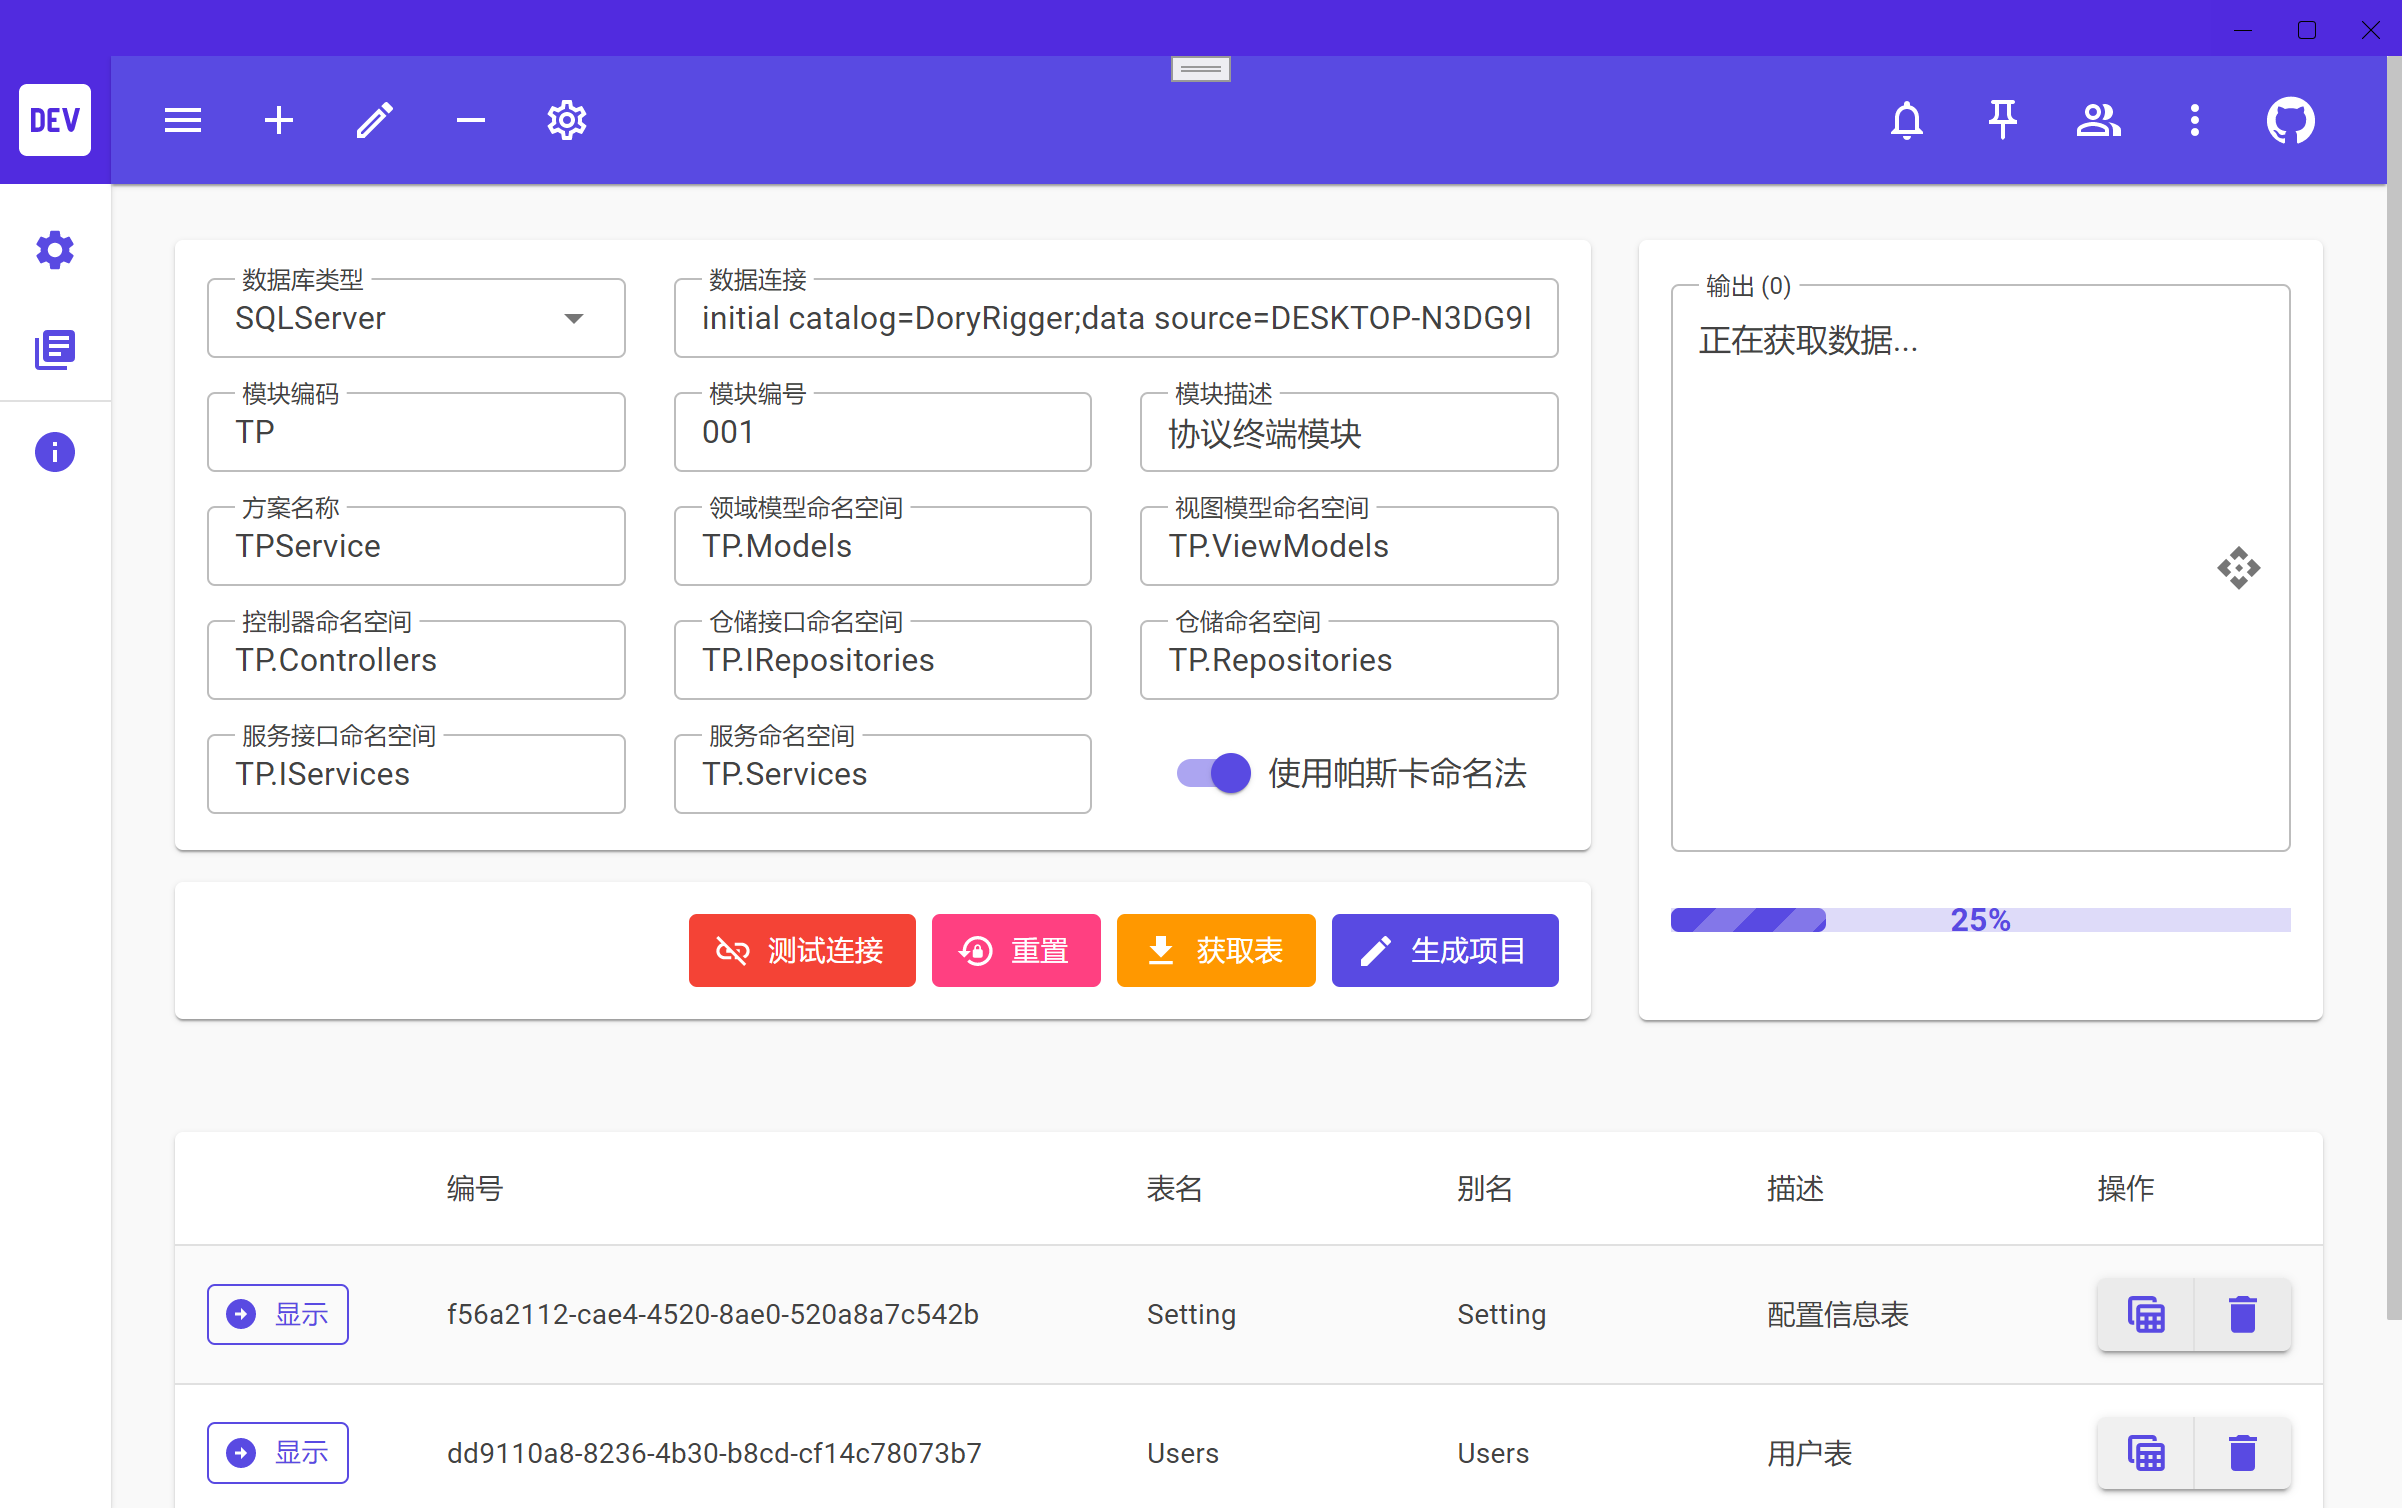
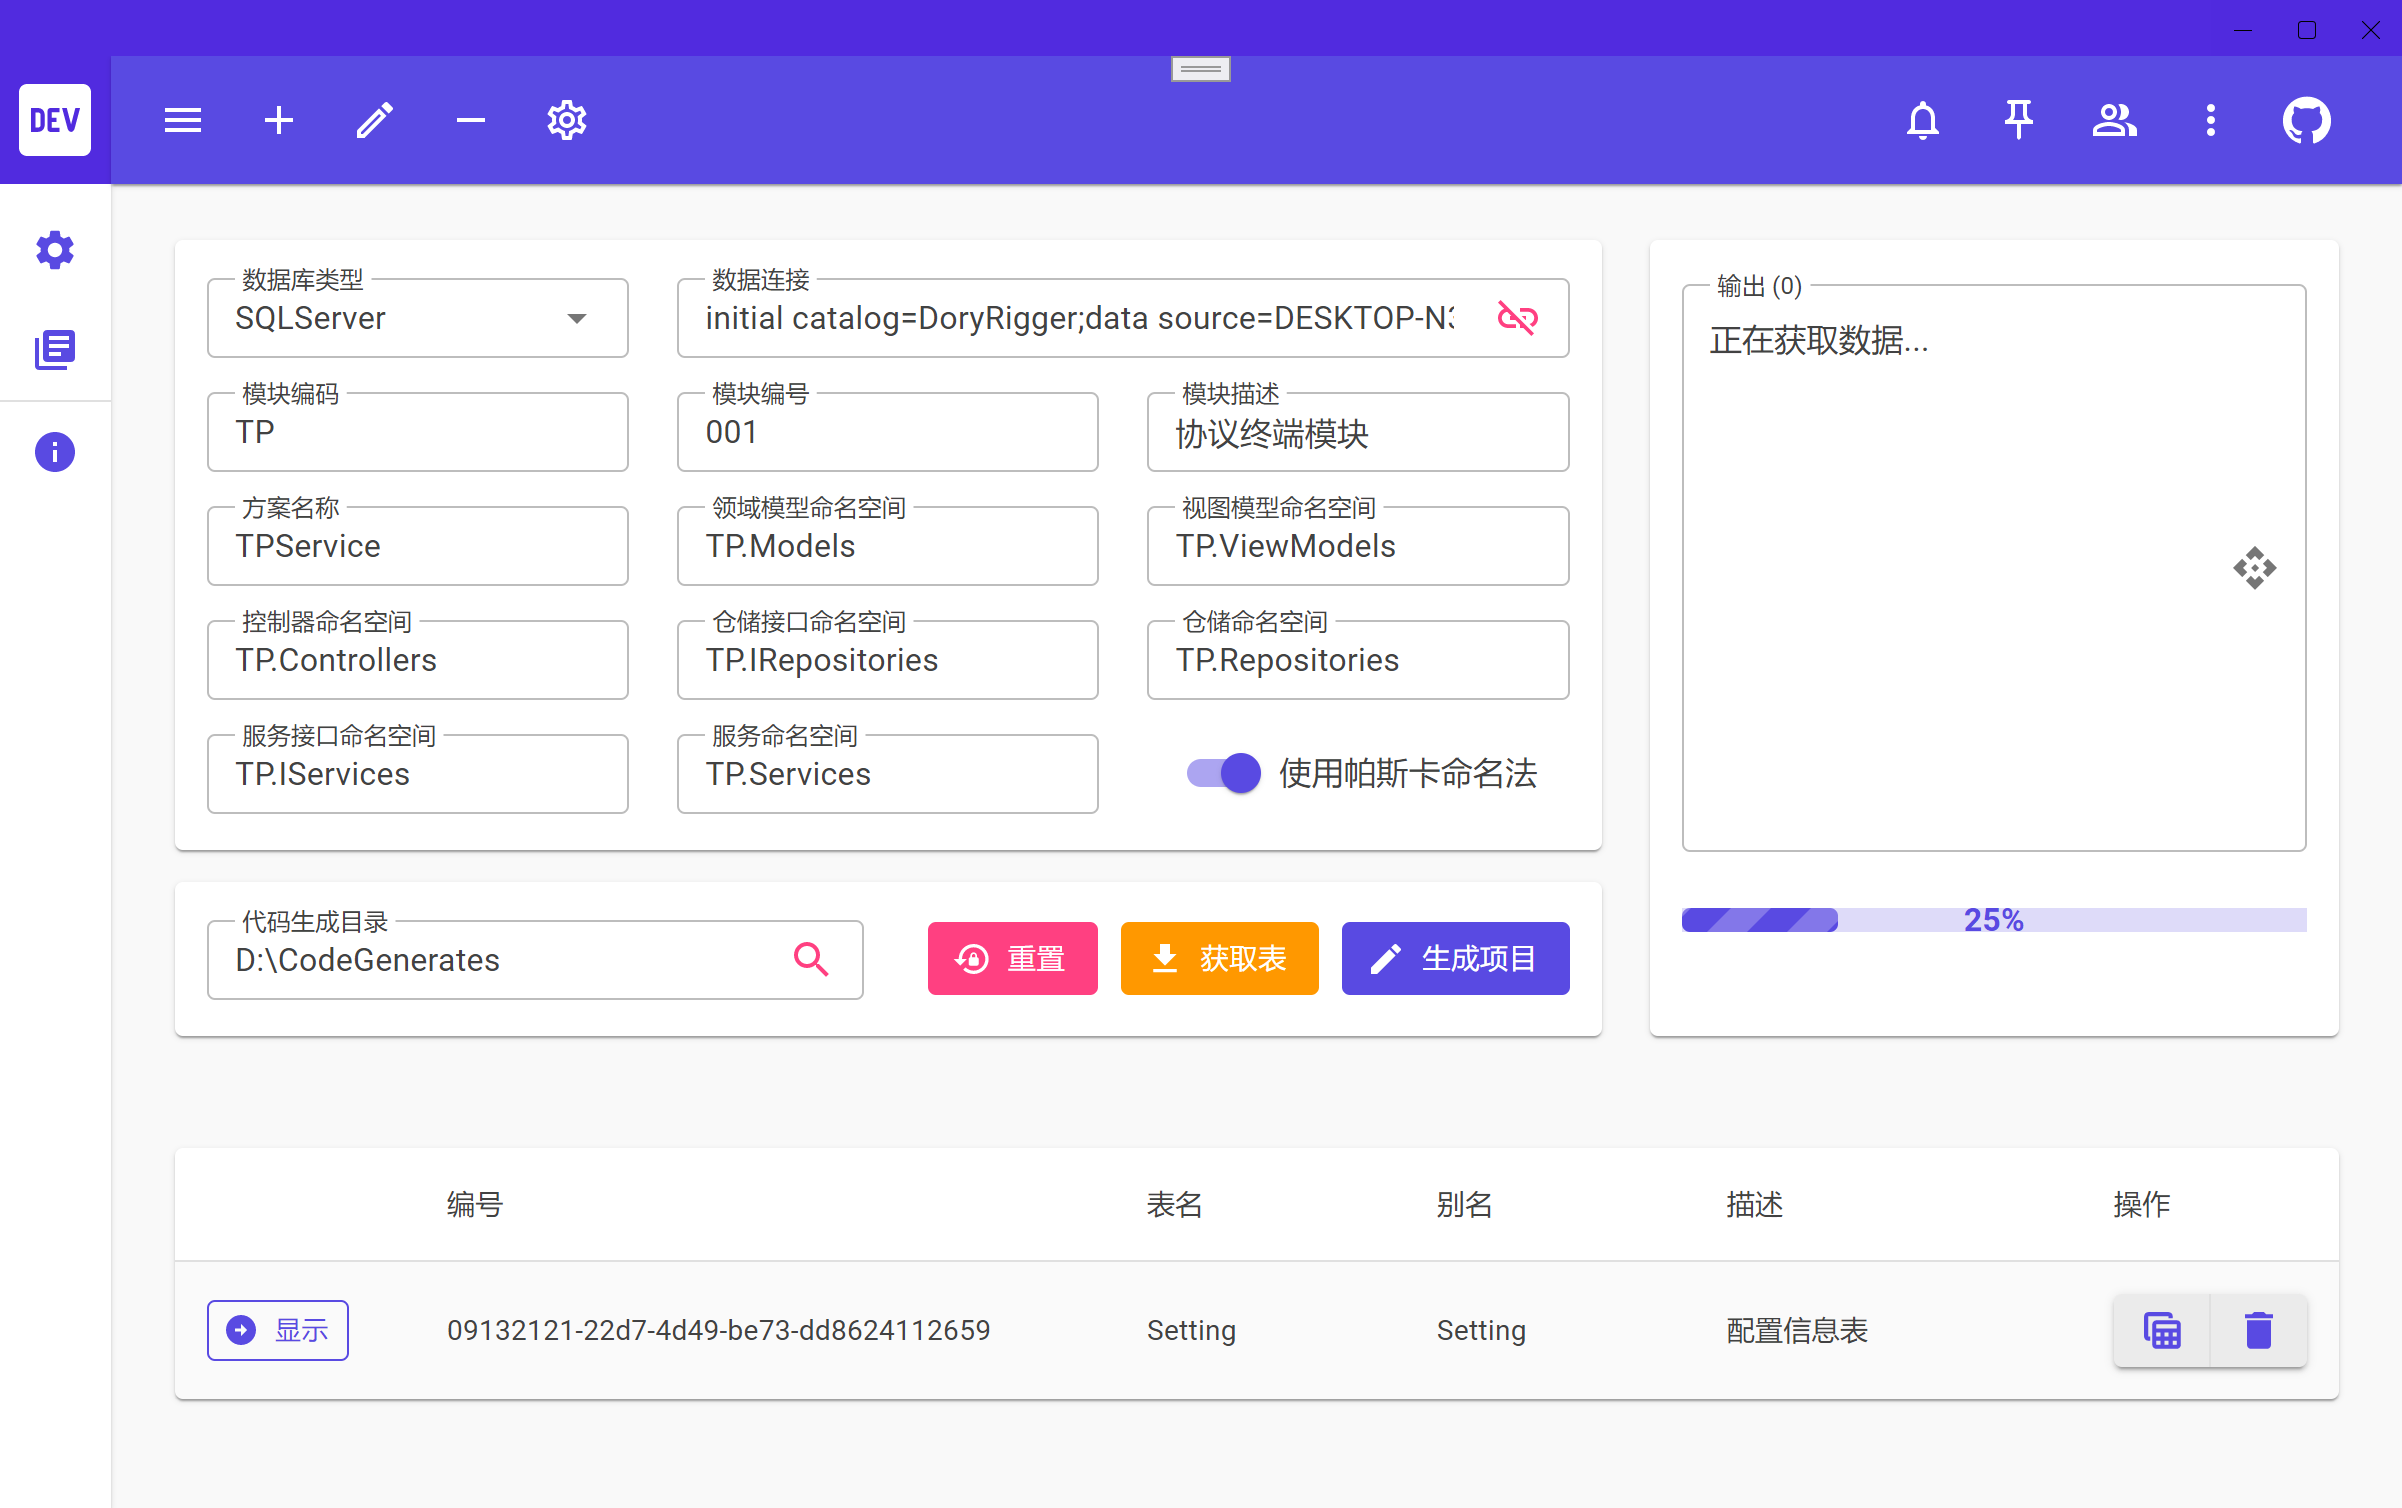
no message

diff --git a/DoryRiggerMaui/Platforms/Windows/CustomTitleBar.cs b/DoryRiggerMaui/Platforms/Windows/CustomTitleBar.cs
@@ -1,0 +1,72 @@
+using Microsoft.Maui;
+using Xaml = Microsoft.UI.Xaml;
+using XamlControls = Microsoft.UI.Xaml.Controls;
+
+namespace DoryRiggerMaui.WinUI;
+
+internal class CustomTitleBar : XamlControls.StackPanel
+{
+	public CustomTitleBar()
+	{
+        //StackPanel背景透明 Background="Transparent"
+        //Windows.UI.Color.FromArgb(100, 255, 0, 0)
+        Background = new Xaml.Media.SolidColorBrush(Microsoft.UI.Colors.Transparent);
+
+        var grid = new XamlControls.Grid();
+
+        //Grid 背景透明 
+        grid.Background = new Xaml.Media.SolidColorBrush(Microsoft.UI.Colors.Transparent);
+
+        grid.Name = "CustomTitleBar";
+
+        /*
+          <Grid.RowDefinitions>
+                    <RowDefinition Height="Auto" />
+                    <RowDefinition Height="*" />
+                </Grid.RowDefinitions>
+         */
+
+        //grid.RowDefinitions.Add(new XamlControls.RowDefinition()
+        //{
+        //    Height = new Xaml.GridLength(1, Xaml.GridUnitType.Auto)
+        //});
+
+        grid.RowDefinitions.Add(new XamlControls.RowDefinition()
+        {
+            Height = new Xaml.GridLength(1, Xaml.GridUnitType.Star)
+        });
+
+        /*
+             <Grid.ColumnDefinitions>
+                    <ColumnDefinition x:Name="LeftPaddingColumn"
+                                      Width="0" />
+                    <ColumnDefinition />
+                    <ColumnDefinition x:Name="RightPaddingColumn"
+                                      Width="0" />
+                </Grid.ColumnDefinitions>
+         */
+
+        grid.ColumnDefinitions.Add(new XamlControls.ColumnDefinition() 
+        { 
+            Width = new Xaml.GridLength(1, Xaml.GridUnitType.Star) 
+        });
+
+        var button = new XamlControls.Button()
+        {
+            Content = "This is a button"
+        };
+
+        grid.Children.Add(button);
+
+        XamlControls.Grid.SetColumn(button, 0);
+        XamlControls.Grid.SetRow(button, 0);
+
+        var border = new XamlControls.Border();
+
+        //Border 背景颜色
+        //border.Background = new Xaml.Media.SolidColorBrush(Windows.UI.Color.FromArgb(255, 255, 255, 1));
+        border.Child = grid;
+
+        Children.Add(border);
+    }
+}

diff --git a/DoryRiggerMaui/Platforms/MacCatalyst/FolderPicker.cs b/DoryRiggerMaui/Platforms/MacCatalyst/FolderPicker.cs
@@ -1,0 +1,86 @@
+using System;
+using Foundation;
+using MobileCoreServices;
+using UIKit;
+using SharedUI.Models;
+
+
+namespace DoryRiggerMaui.MacCatalyst
+{
+	public class FolderPicker : IFolderPicker
+	{
+		class PickerDelegate : UIDocumentPickerDelegate
+		{
+			public Action<NSUrl[]> PickHandler { get; set; }
+
+			public override void WasCancelled(UIDocumentPickerViewController controller)
+				=> PickHandler?.Invoke(null);
+
+			public override void DidPickDocument(UIDocumentPickerViewController controller, NSUrl[] urls)
+				=> PickHandler?.Invoke(urls);
+
+			public override void DidPickDocument(UIDocumentPickerViewController controller, NSUrl url)
+				=> PickHandler?.Invoke(new NSUrl[] { url });
+		}
+
+		static void GetFileResults(NSUrl[] urls, TaskCompletionSource<string> tcs)
+		{
+			try
+			{
+				tcs.TrySetResult(urls?[0]?.ToString() ?? "");
+			}
+			catch (Exception ex)
+			{
+				tcs.TrySetException(ex);
+			}
+		}
+
+		public async Task<string> PickFolder()
+		{
+			var allowedTypes = new string[]
+			{
+			  "public.folder"
+			};
+
+			var picker = new UIDocumentPickerViewController(allowedTypes, UIDocumentPickerMode.Open);
+			var tcs = new TaskCompletionSource<string>();
+
+			picker.Delegate = new PickerDelegate
+			{
+				PickHandler = urls => GetFileResults(urls, tcs)
+			};
+
+			if (picker.PresentationController != null)
+			{
+				picker.PresentationController.Delegate =
+					new UIPresentationControllerDelegate(() => GetFileResults(null, tcs));
+			}
+
+			var parentController = Platform.GetCurrentUIViewController();
+
+			parentController.PresentViewController(picker, true, null);
+
+			return await tcs.Task;
+		}
+
+		internal class UIPresentationControllerDelegate : UIAdaptivePresentationControllerDelegate
+		{
+			Action dismissHandler;
+
+			internal UIPresentationControllerDelegate(Action dismissHandler)
+				=> this.dismissHandler = dismissHandler;
+
+			public override void DidDismiss(UIPresentationController presentationController)
+			{
+				dismissHandler?.Invoke();
+				dismissHandler = null;
+			}
+
+			protected override void Dispose(bool disposing)
+			{
+				dismissHandler?.Invoke();
+				base.Dispose(disposing);
+			}
+		}
+	}
+}

diff --git a/DoryRiggerMaui/MauiProgram.cs b/DoryRiggerMaui/MauiProgram.cs
@@ -10,11 +10,10 @@ using Microsoft.Maui.Controls.Xaml;
 using Microsoft.UI;
 using Microsoft.UI.Windowing;
 using Windows.Graphics;
-#endif
-
-
-#if WINDOWS
 using DoryRiggerMaui.WinUI;
+using SharedUI.Models;
+#elif MACCATALYST
+using SharedUI.Models;
 #endif
 
 namespace DoryRiggerMaui;
@@ -41,6 +40,9 @@ public static class MauiProgram
 #endif
 
 #if WINDOWS
+
+        builder.Services.AddTransient<SharedUI.Models.IFolderPicker, DoryRiggerMaui.Windows.FolderPicker>();
+
         builder.ConfigureLifecycleEvents(events =>
         {
             events.AddWindows(wndLifeCycleBuilder =>
@@ -75,6 +77,9 @@ public static class MauiProgram
                 });
             });
         });
+
+#elif MACCATALYST
+		builder.Services.AddTransient<SharedUI.Models.IFolderPicker, DoryRiggerMaui.MacCatalyst.FolderPicker>();
 #endif
         return builder.Build();
     }

diff --git a/DoryRiggerMaui/Platforms/Windows/FolderPicker.cs b/DoryRiggerMaui/Platforms/Windows/FolderPicker.cs
@@ -1,0 +1,25 @@
+using WindowsFolderPicker = Windows.Storage.Pickers.FolderPicker;
+using SharedUI.Models;
+
+namespace DoryRiggerMaui.Windows
+{
+    public class FolderPicker : IFolderPicker
+    {
+        public async Task<string> PickFolder()
+        {
+            var folderPicker = new WindowsFolderPicker();
+
+            folderPicker.FileTypeFilter.Add("*");
+
+            // 通过传入窗口对象获取当前窗口的HWND
+            var hwnd = ((MauiWinUIWindow)Application.Current.Windows[0].Handler.PlatformView).WindowHandle;
+
+            //将HWND与文件选择器关联
+            WinRT.Interop.InitializeWithWindow.Initialize(folderPicker, hwnd);
+
+            var result = await folderPicker.PickSingleFolderAsync();
+
+            return result?.Path;
+        }
+    }
+}

diff --git a/SharedUI/IFolderPicker.cs b/SharedUI/IFolderPicker.cs
@@ -1,0 +1,13 @@
+using System;
+using System.Collections.Generic;
+using System.Linq;
+using System.Text;
+using System.Threading.Tasks;
+
+namespace SharedUI.Models
+{
+    public interface IFolderPicker
+    {
+        Task<string> PickFolder();
+    }
+}
